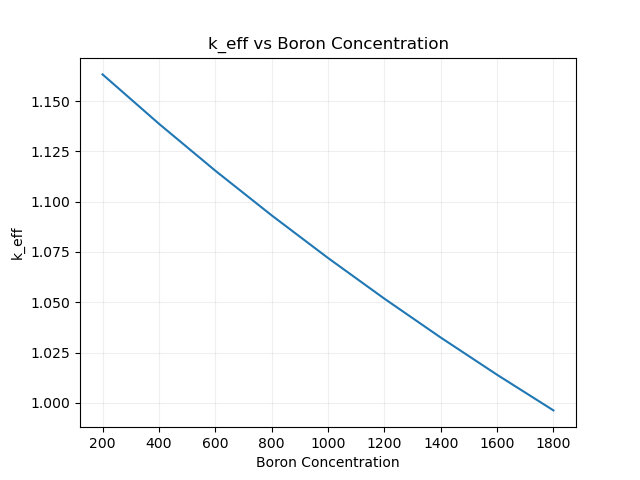
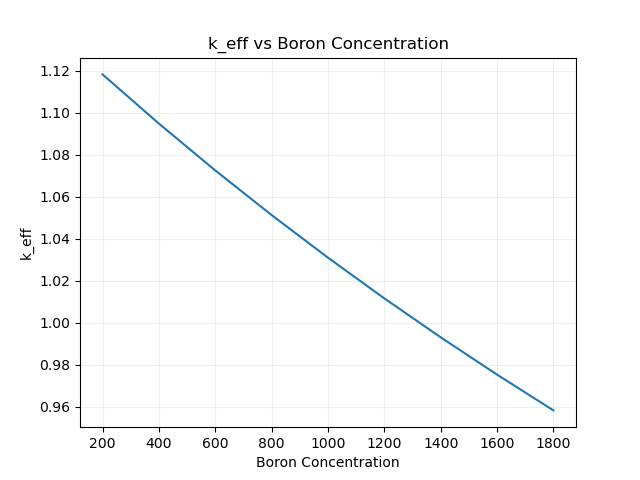
submitted

diff --git a/python/ne571_benchmark_v3.py b/python/ne571_benchmark_v3.py
@@ -461,6 +461,8 @@ def visualize(phi1, phi2, nx, ny, nz):
     # Create figure with subplots for profiles
     fig_profiles, axs_profiles = plt.subplots(3, 1, figsize=(10, 12), layout='constrained')
 
+    print(f"peaking: {np.max(phi1_3d[:,ny//2,nz//2])/np.mean(phi1_3d[:,ny//2,nz//2])}")
+
     # X direction plot
     axs_profiles[0].plot(range(nx), phi1_3d[:, my, mz], 'b-', label='Fast Flux')
     axs_profiles[0].plot(range(nx), phi2_3d[:, my, mz], 'r--', label='Thermal Flux')

diff --git a/python/NE571_boron_Project5.py b/python/NE571_boron_Project5.py
@@ -74,7 +74,7 @@ cell = [x, y, z]
 NOTE: The x, y, and z widths must sum to the same value in the other two dimensions across all cells.
 """
 dimensions = np.zeros((nx, ny, nz, 3), dtype=float)
-dimensions[:, :, :, :] = [8.426,8.426,15.27]
+dimensions[:, :, :, :] = [7.129,7.129,12.921]
 
 
 # Arbirary flags
